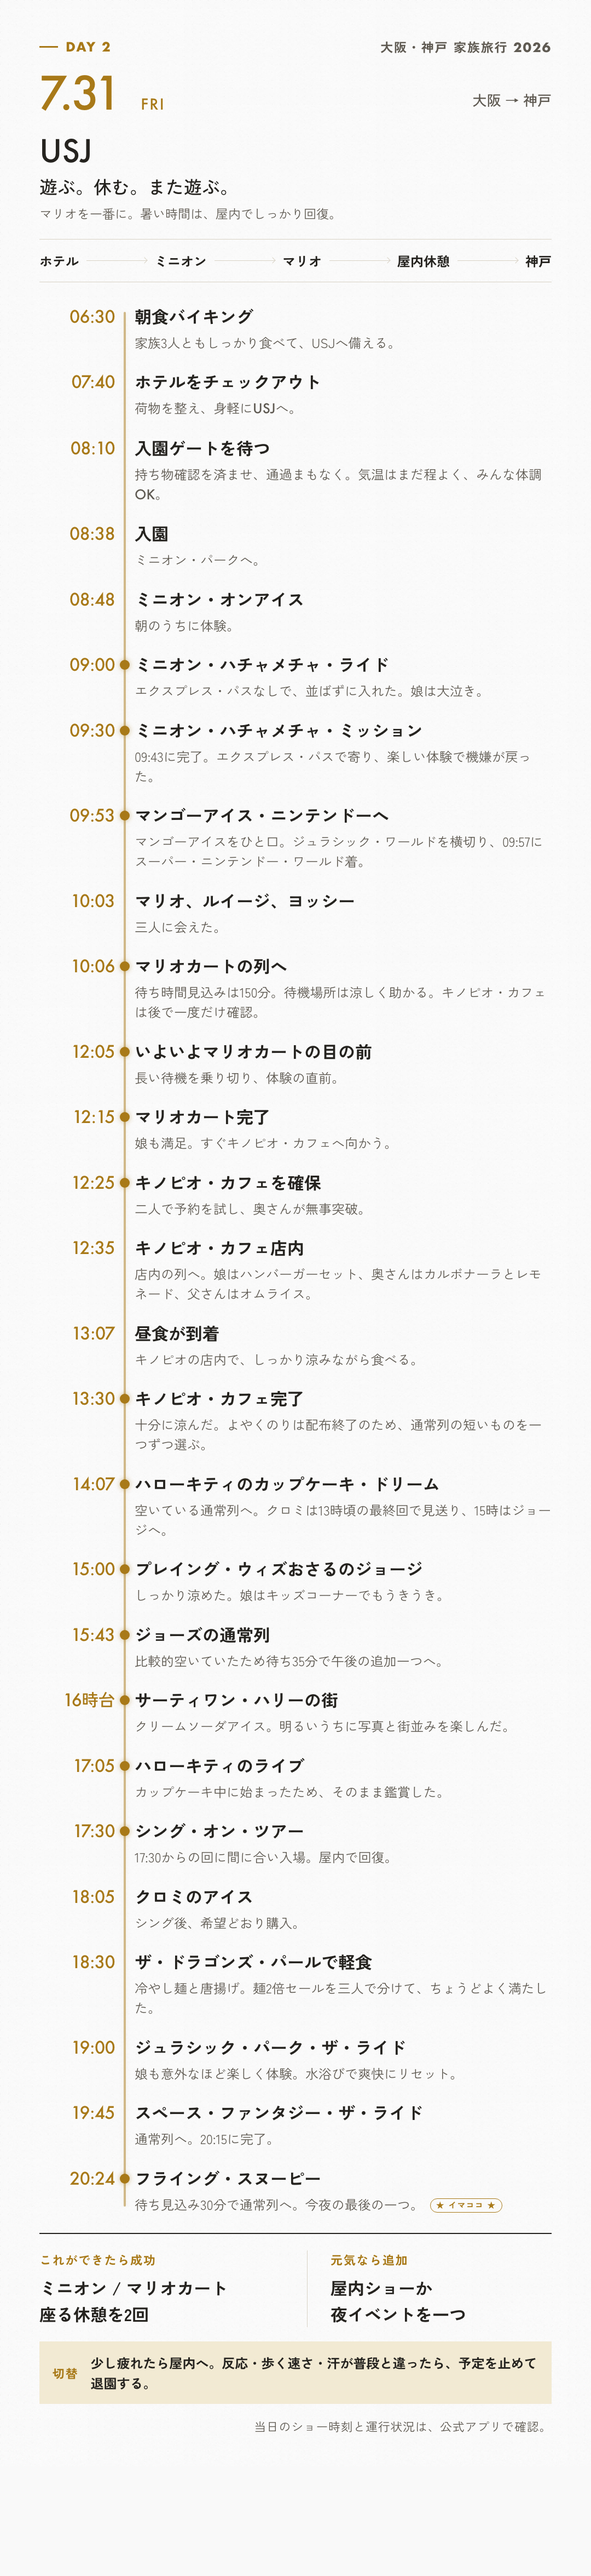
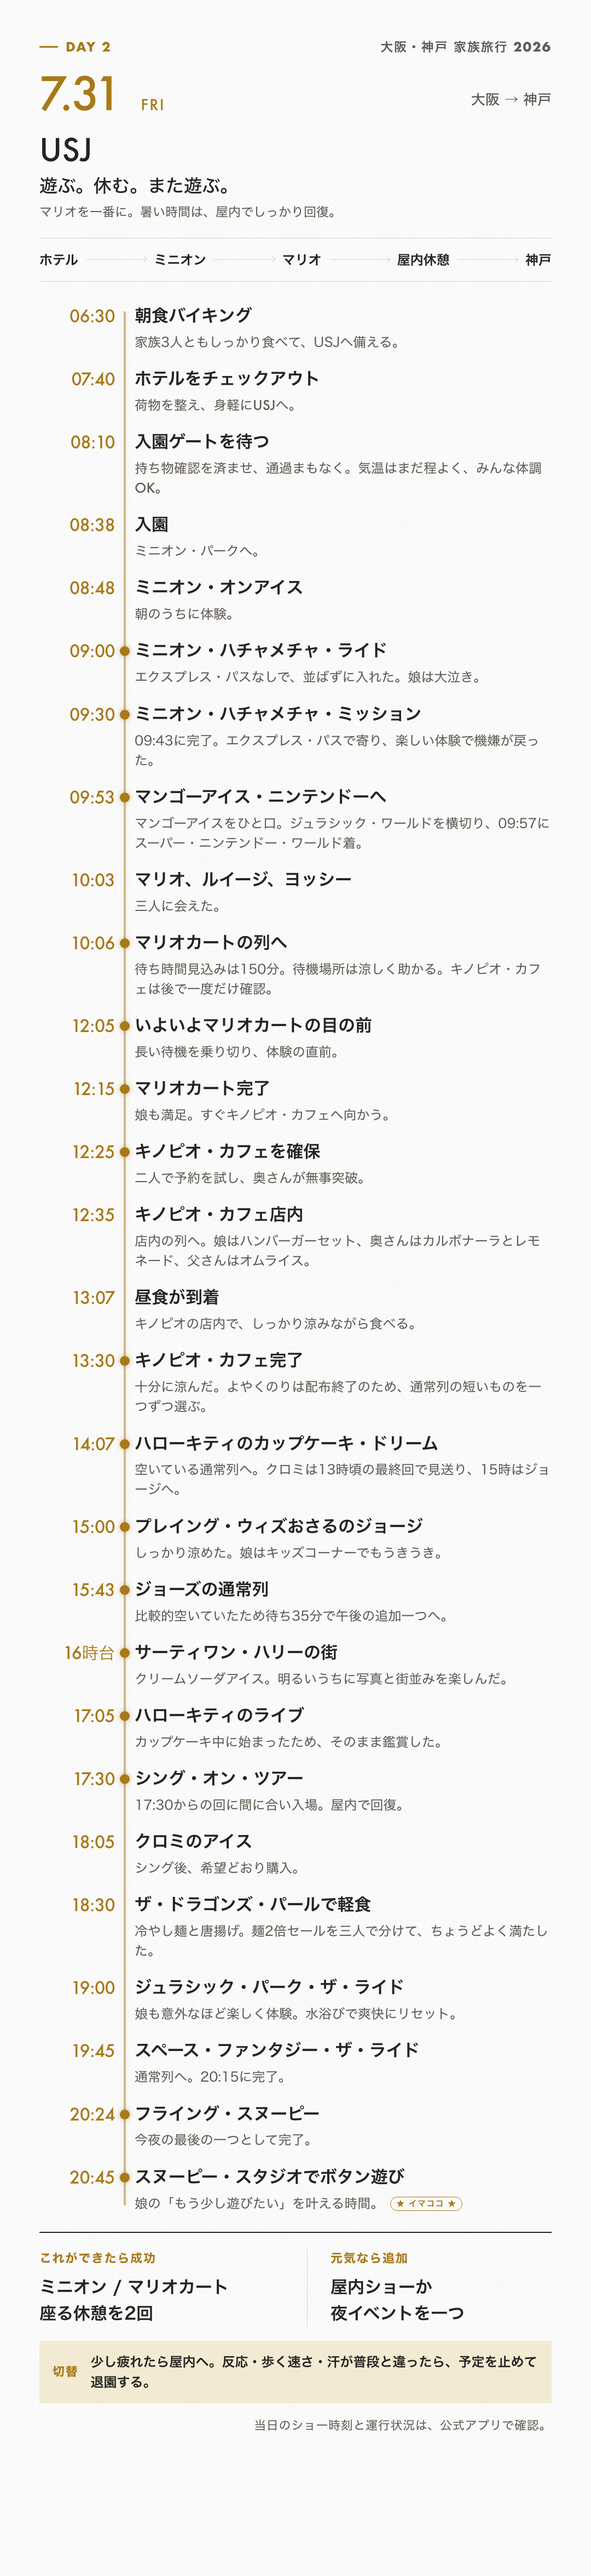
Record USJ closing moments

diff --git a/docs/usj-guide.html b/docs/usj-guide.html
@@ -126,7 +126,11 @@
             </div>
             <div class="timeline__item">
               <time>20:24</time>
-              <div><h3>フライング・スヌーピーの列</h3><p>待ち見込み30分。<span class="now-marker">★ イマココ ★</span></p></div>
+              <div><h3>フライング・スヌーピー</h3><p>完了。</p></div>
+            </div>
+            <div class="timeline__item">
+              <time>20:45</time>
+              <div><h3>スヌーピー・スタジオでボタン遊び</h3><p>娘の「もう少し遊びたい」を叶える時間。<span class="now-marker">★ イマココ ★</span></p></div>
             </div>
           </div>
         </section>
@@ -165,23 +169,23 @@
         <section>
           <div class="eyebrow"><span aria-hidden="true"></span>FAMILY DECISION</div>
           <h2>ここからの判断</h2>
-          <p class="status-note"><span class="now-marker">★ イマココ ★</span> 20:24、フライング・スヌーピーの列。ジュラシックとスペースまで楽しんだので、ここが今夜の最後のライド候補。</p>
+          <p class="status-note"><span class="now-marker">★ イマココ ★</span> 20:45、スヌーピー・スタジオでボタン遊び。最後のライドまで終え、娘が楽しみたい余白を使っている。</p>
           <div class="mini-grid">
             <div>
-              <h3>いま: フライング・スヌーピー</h3>
-              <p>20:24に通常列へ。待ち見込み30分でも、閉園前の最後の一つとして楽しむ。</p>
+              <h3>いま: スヌーピー・スタジオ</h3>
+              <p>20:45、娘がボタン遊びを楽しんでいる。ここは時計を見ながら、遊び切った感をつくる時間。</p>
             </div>
             <div>
-              <h3>次: 降りたら退園</h3>
-              <p>ここまでで十分。水分を取り、ユニバーサルシティウォーク駐車場の迎え場所へ向かう。</p>
+              <h3>次: 退園</h3>
+              <p>遊び終えたら、水分を取りユニバーサルシティウォーク駐車場の迎え場所へ向かう。</p>
             </div>
             <div>
               <h3>今夜の達成</h3>
-              <p>ミニオン、マリオ、キノピオ、ジョーズ、ジュラシック、スペース、スヌーピーまで。追加の約束は作らない。</p>
+              <p>ミニオン、マリオ、キノピオ、ジョーズ、ジュラシック、スペース、スヌーピーまで。最後に娘の遊び時間も取れた。</p>
             </div>
           </div>
           <p class="route-line">
-            フライング・スヌーピー → 水分 → 迎え場所へ
+            スヌーピー・スタジオ → 水分 → 迎え場所へ
           </p>
           <p class="deadline-note">
             <strong>終了済み:</strong> よやくのり、クロミ・ライブ、朝の整理券判断。いまは新しい券や期限を追わず、目の前の待ち時間と娘の反応で決める。
@@ -202,21 +206,21 @@
               <time>20:24</time>
               <div>
                 <h3>フライング・スヌーピー</h3>
-                <p>待ち見込み30分で通常列へ。<span class="now-marker">★ イマココ ★</span></p>
+                <p>完了。今夜の最後のライドを回収した。</p>
               </div>
             </div>
             <div class="timeline__item">
-              <time>降車後</time>
+              <time>20:45</time>
+              <div>
+                <h3>スヌーピー・スタジオ</h3>
+                <p>娘がボタン遊びを楽しんでいる。<span class="now-marker">★ イマココ ★</span></p>
+              </div>
+            </div>
+            <div class="timeline__item">
+              <time>遊び終えたら</time>
               <div>
                 <h3>水分を取って退園</h3>
-                <p>今夜の追加はここまで。迎え場所へ向かう。</p>
-              </div>
-            </div>
-            <div class="timeline__item">
-              <time>合流</time>
-              <div>
-                <h3>ユニバーサルシティウォーク駐車場</h3>
-                <p>到着したら迎えへ連絡する。</p>
+                <p>ユニバーサルシティウォーク駐車場に到着したら迎えへ連絡する。</p>
               </div>
             </div>
             <div class="timeline__item">
@@ -339,9 +343,9 @@
         <section>
           <h2>今夜の候補</h2>
           <div class="mini-grid">
-            <div><h3>いま</h3><p>フライング・スヌーピー。20:24、待ち見込み30分の通常列へ。</p></div>
-            <div><h3>達成</h3><p>ジュラシックは水浴びも含めて楽しく完了。スペースも20:15に回収。</p></div>
-            <div><h3>降車後</h3><p>水分を取り、今夜のライドはここで終了。</p></div>
+            <div><h3>いま</h3><p>スヌーピー・スタジオ。20:45、娘がボタン遊びを楽しんでいる。</p></div>
+            <div><h3>達成</h3><p>ジュラシック、スペース、フライング・スヌーピーまで完了。</p></div>
+            <div><h3>遊び終えたら</h3><p>水分を取り、今夜のライドはここで終了。</p></div>
             <div><h3>退園</h3><p>ユニバーサルシティウォーク駐車場の迎え場所へ向かう。</p></div>
           </div>
           <p class="direction-note">

diff --git a/docs/trip-plan.html b/docs/trip-plan.html
@@ -413,11 +413,11 @@
             </div>
             <div>
               <h3>現在</h3>
-              <p><span class="now-marker">★ イマココ ★</span> 20:24、フライング・スヌーピーの通常列へ。待ち見込み30分。</p>
+              <p><span class="now-marker">★ イマココ ★</span> 20:45、スヌーピー・スタジオで娘がボタン遊びを楽しんでいる。</p>
             </div>
             <div>
               <h3>この後</h3>
-              <p>ジュラシックは水浴びで爽快に楽しみ、スペースも20:15に完了。スヌーピーを今夜の最後の一つにして、降りたら迎え場所へ。</p>
+              <p>ジュラシック、スペース、スヌーピーまで完了。遊び終えたら水分を取り、迎え場所へ向かう。</p>
             </div>
           </div>
           <p>時刻つきの実績、現在地、ここからの判断は、<a href="usj-guide.html">USJ当日ガイド</a>を正本とする。</p>
